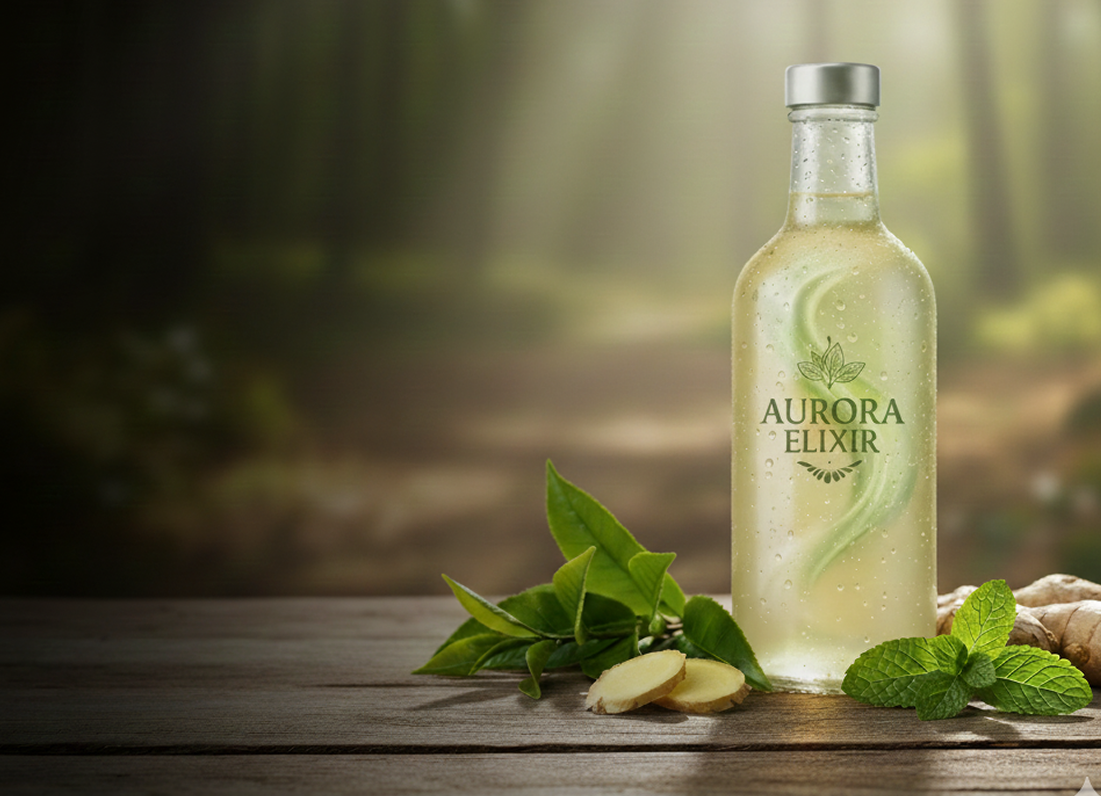
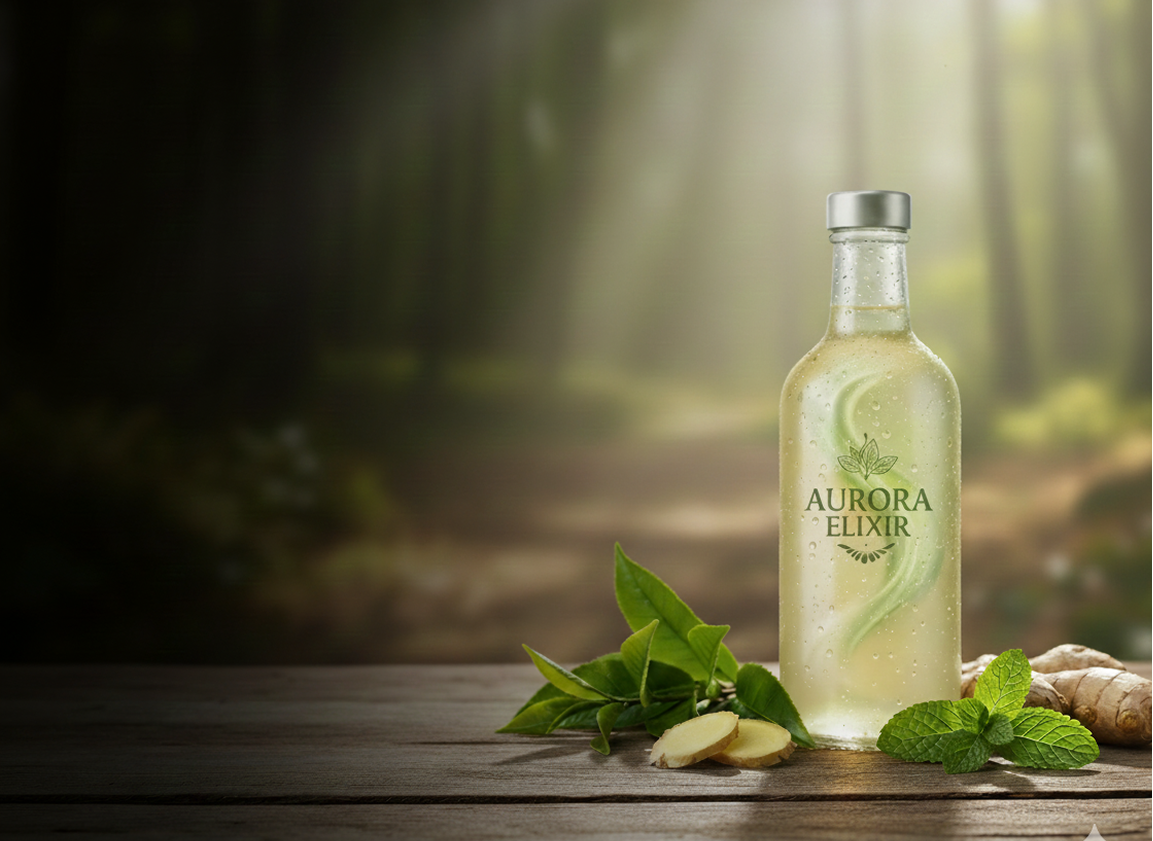
Ajustando a imagem do hero

diff --git a/assets/css/styleNatalia.css b/assets/css/styleNatalia.css
@@ -151,11 +151,21 @@ body {
     min-height: 90vh;
     display: flex;
     align-items: center;
-    justify-items: center;
-    background: url('/assets/img/banner\ header.png');
-    background-size: cover;
-    background-position: right top;
-    padding: 2rem;
+    justify-items: flex-start;
+    padding: 4rem;
+    overflow: hidden;
+}
+
+.hero-bg {
+    position: absolute;
+    top: 0;
+    left: 0;
+    width: 100%;
+    height: 100%;
+    object-fit: cover;
+    object-position: 40% 70% ; 
+    z-index: -1; 
+    transition: all 0.3s ease;
 }
 
 .hero-content {
@@ -423,6 +433,16 @@ footer {
 
 
 /* ------------ MEDIA QUERIES ---------------*/
+
+@media (max-width: 800px) {
+    .hero-title {
+        font-size: 4rem;
+    }
+
+    .hero-bg {
+        filter: brightness(0.5);
+    }
+}
 
 /* Tablet */
 @media (min-width: 768px) {

diff --git a/index.html b/index.html
@@ -42,6 +42,7 @@
 
     <!-- Hero Section -->
     <section class="hero">
+        <img src="./assets/img/banner header.png" alt="" class="hero-bg">
         <div class="hero-content">
             <h1 class="hero-title">Aurora<br>Elixir</h1>
             <h2 class="hero-subtitle">Energia limpa.</h2>
